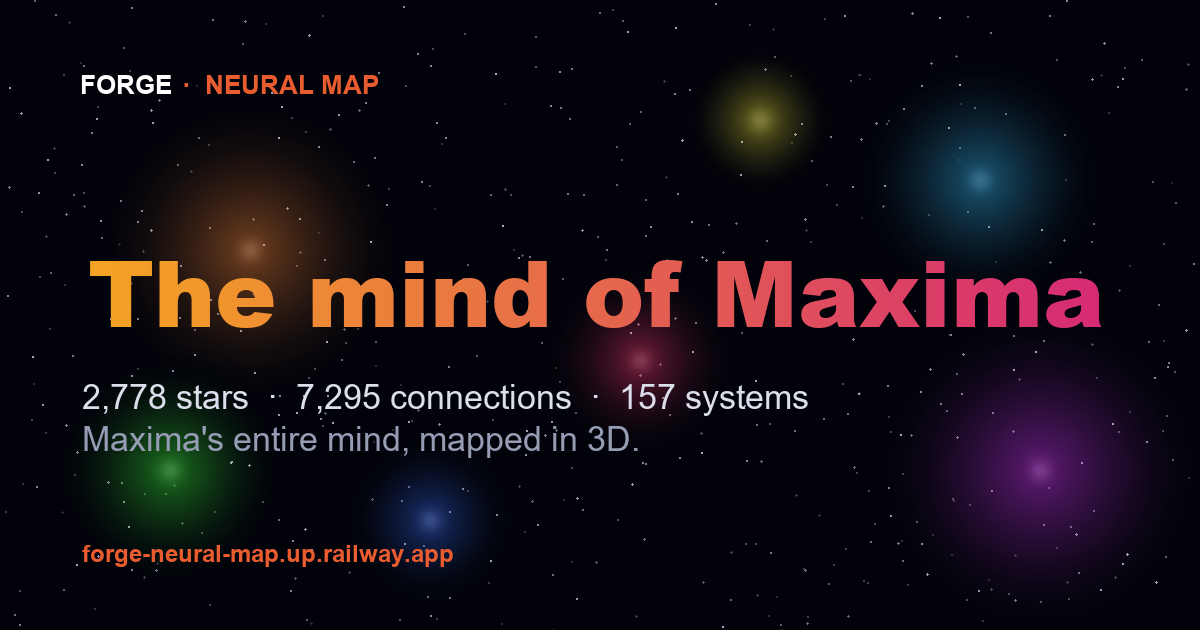
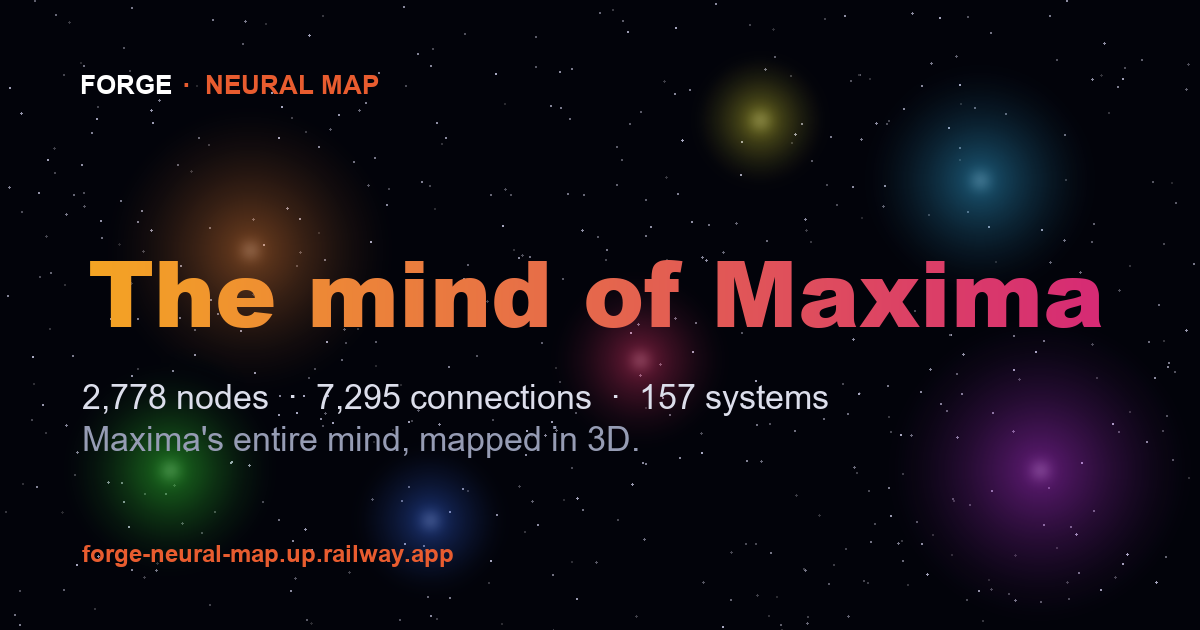
Stop calling the graph nodes "stars" on the one page GitHub disagrees
The headline bullet read "2,778 stars . 7,295 connections . 157 systems" on a
repository with 0 stargazers. Every number in it is correct -- verified here
against nodes.json: 2,778 entries in every per-node array, 14,590 link endpoints
so 7,295 connections, and 157 distinct community ids. The defect is not accuracy.

"Star" is this app's own word and the right one inside a star field; the source
uses it about 130 times to "node" 7. But a README renders on a page that prints
GitHub's real star count a few centimetres above the text, and there the word is
already taken. A skimmer reads a repo claiming thousands of stars while the
header says 0 -- true in one vocabulary, a large false boast in the other.

It was also already inconsistent. Lance's profile README and the portfolio index
both describe the same figure as "2,778 nodes". Only the repo's own front page
used the colliding word, on the single surface where the collision exists.

So the counted noun changes and the metaphor stays: "drawn as a star field".

og_gen.py baked the same phrase into the social card, so a shared link showed it
too. Card regenerated and diffed against the previous one: the only pixels that
changed are rows 384-416, the one text line. Dimensions unchanged at 1200x630.

tests/test_claims.py parsed the number by looking for the word "stars" and went
red on the wording change, which is what it was written to do -- its own failure
[…]

Changed region(s): [[0.2467, 0.6032, 0.4933, 0.6635], [0.5242, 0.6032, 0.7092, 0.6635], [0.1542, 0.6032, 0.2158, 0.6635]]

diff --git a/tests/test_claims.py b/tests/test_claims.py
@@ -113,11 +113,34 @@ class ReadmeMatchesTheData(unittest.TestCase):
         )
         return int(m.group(1).replace(",", ""))
 
-    def test_star_count_matches(self):
+    def test_node_count_matches(self):
         self.assertEqual(
-            self._stated("stars"), self.actual["nodes"],
-            "README advertises a star count that nodes.json does not contain. "
+            self._stated("nodes"), self.actual["nodes"],
+            "README advertises a node count that nodes.json does not contain. "
             "This number is also on Lance's GitHub profile front door.",
+        )
+
+    def test_the_headline_count_is_not_called_stars(self):
+        """On GitHub, "stars" is not an available word.
+
+        The app calls these objects stars about 130 times and that is the right
+        name inside a star field. But this README renders on a page that prints
+        GitHub's own star count a few centimetres above it, and the line read
+        "2,778 stars" on a repository with 0 -- true in the app's vocabulary and
+        a large false boast in the reader's.
+
+        The profile README and the portfolio already said "2,778 nodes". Only
+        the repo's own front page used the colliding word, on the one surface
+        where the collision exists.
+
+        The metaphor is kept in the prose ("drawn as a star field"); only the
+        counted noun changed.
+        """
+        headline = re.search(r"^- \*\*[\d,]+ .*$", self.text, re.M)
+        self.assertIsNotNone(headline, "the headline bullet has gone")
+        self.assertNotRegex(
+            headline.group(0), r"(?i)[\d,]+\s*stars\b",
+            "the headline count is back to a GitHub-reserved word",
         )
 
     def test_connection_count_matches(self):

diff --git a/og_gen.py b/og_gen.py
@@ -83,7 +83,7 @@ bb = draw.textbbox((0, 0), "FORGE", font=f_brand)
 draw.text((80 + (bb[2] - bb[0]) + 10, 70), "·  NEURAL MAP", font=f_brand, fill=(232, 92, 47, 235))
 
 # ---- subtitle ----
-draw.text((82, 378), "2,778 stars  ·  7,295 connections  ·  157 systems", font=f_sub, fill=(220, 222, 235, 255))
+draw.text((82, 378), "2,778 nodes  ·  7,295 connections  ·  157 systems", font=f_sub, fill=(220, 222, 235, 255))
 draw.text((82, 420), "Maxima's entire mind, mapped in 3D.", font=f_sub, fill=(150, 156, 180, 255))
 
 # ---- footer ----

diff --git a/README.md b/README.md
@@ -25,7 +25,7 @@
 I took **Maxima** — a production AI agent built at [FORGE](https://forge-landing-production.up.railway.app) — and rendered her entire codebase as an explorable galaxy. Then I made *her* your guide through it.
 
 ## What it is
-- **2,778 stars · 7,295 connections · 157 systems** — every function and file in her code, mapped from a real knowledge graph.
+- **2,778 nodes · 7,295 connections · 157 systems** — every function and file in her code, mapped from a real knowledge graph and drawn as a star field.
 - **Five scales of exploration:** fly the galaxy → warp into a star → orbit its planets → drop to a planet's surface → zoom out to a universe of sibling galaxies (Memory, Voice, Reasoning, Soul, Dreams).
 - **Maxima narrates it** — a cinematic, voiced guide (Web Speech) that welcomes you and explains what each part of her is.
 - **Watch Maxima think** — six guided prompts illuminate real routing paths; optional live mode stays private and key-gated in the browser.
